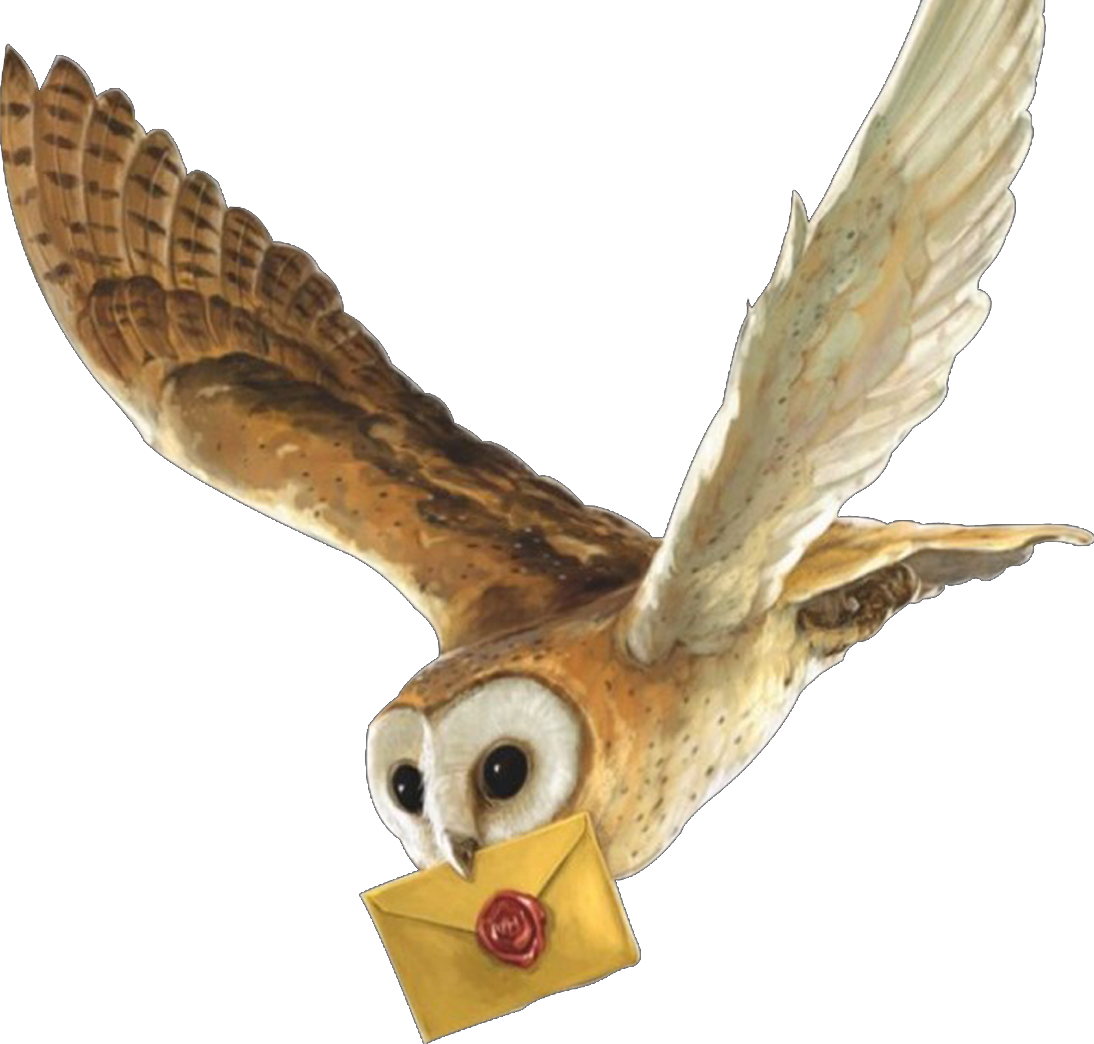
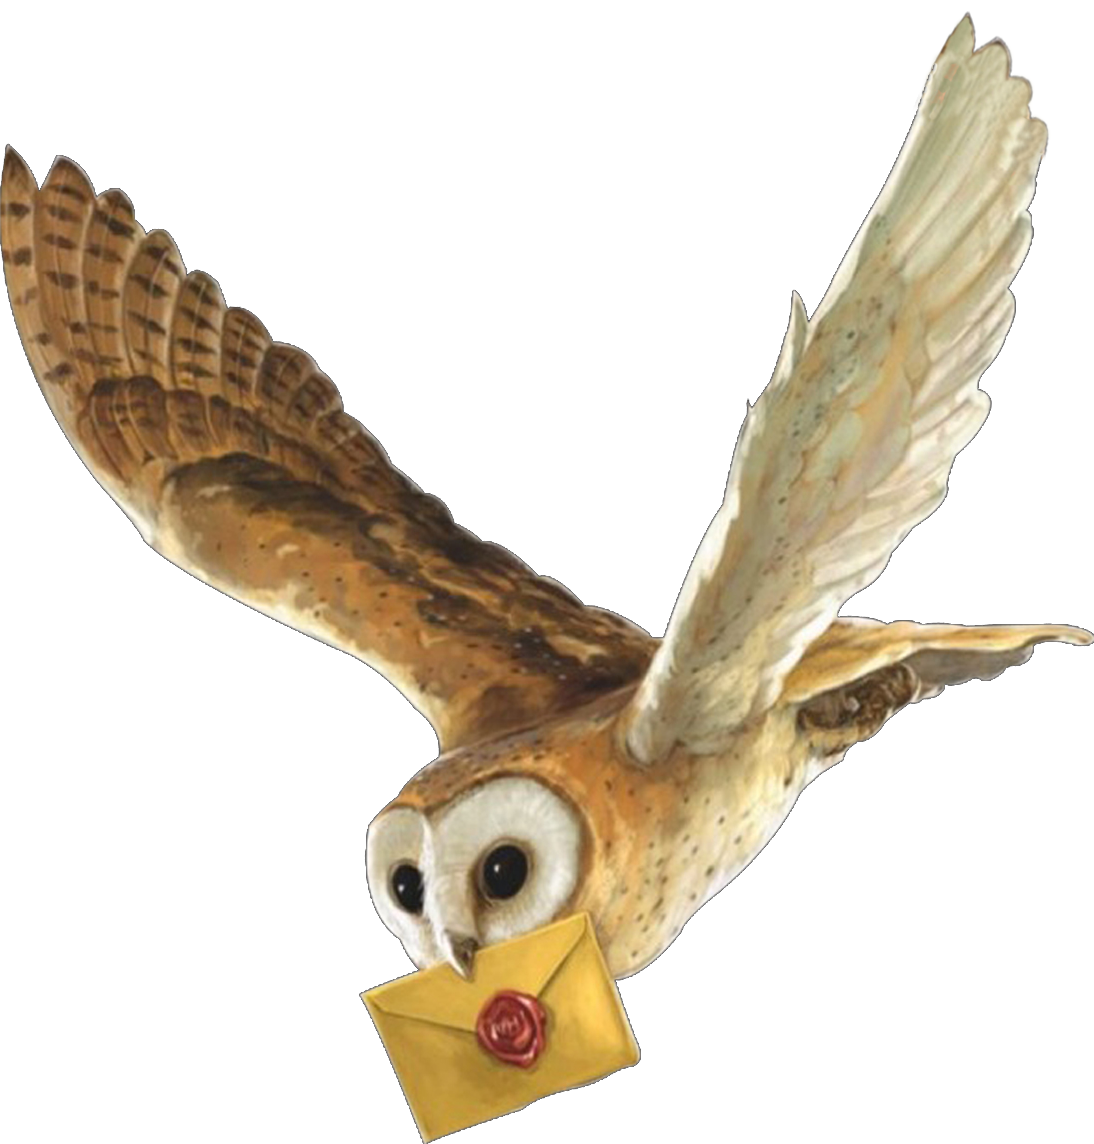
More work

Changed region(s): [[0.0, 0.0, 1.0, 0.9808], [0.404, 0.9808, 0.4351, 1.0]]

diff --git a/index.html b/index.html
@@ -24,17 +24,19 @@
 			<source src="images/white-smoke.mp4" type="video/mp4">
 		</video>
 		<article class="white-font">
-			<h1 class="hp-font">
+			<h1 class="hp-font yellow-shadow-font">
 				Happy Birthday
 			</h1>
 			<p>Wait, what’s this letter? It looks like… could it be…?</p>
 	    </article>
-		<div id="sparkle" class="sprite" data-offsety="430" data-xposition="50%" data-speed="2" data-direction="up"></div>
-		<div id="letter" class="sprite" data-offsety="430" data-xposition="50%" data-speed="3" data-direction="down"></div>
+		<div id="sparkle" class="sprite" data-scale="200" data-offsety="430" data-offsety="50%" data-speed="2" data-direction="up"></div>
+		<div id="sparkle-2" class="sprite" data-scale="150" data-offsety="430" data-offsety="50%" data-speed="3" data-direction="up"></div>
+		<div id="letter" class="sprite" data-offsety="430" data-offsety="50%" data-speed="3" data-direction="down"></div>
 	</section>
-
+	
 	<!-- Section #2 / Background Only -->
 	<section id="second" class="story parallax-bg" data-direction="down">
+		<div id="owl" class="sprite" data-scale="400" data-offsety="200" data-offsetx="85%" data-speed="3" data-direction="down"></div>
 		<article>
 			<h2 class="a-font">It's your Hogwarts letter!</h2>
 			<p>In this section we are sliding the background at a different speed to the rest of the page.</p>
@@ -47,8 +49,8 @@
 	
 	<!-- Section #3 / Photos -->
 	<section id="third" class="story parallax-bg1" data-direction="up">    	
-		<div class="photograph" data-type="sprite" data-offsetY="1250" data-Xposition="25%" data-speed="2"></div>
-		<div class="photograph" data-type="sprite" data-offsetY="1250" data-Xposition="29%" data-speed="3"></div>
+		<div class="photograph" data-type="sprite" data-offsetY="1250" data-offsety="25%" data-speed="2"></div>
+		<div class="photograph" data-type="sprite" data-offsetY="1250" data-offsety="29%" data-speed="3"></div>
     	<article>
     		<h2>Scrolling Sprites</h2>
 	    	<div class="textbox">    	
@@ -79,7 +81,7 @@
 
 	<!-- Section #5 / The End-->
 	<section id="theend" class="story parallax-bg" data-speed="8" data-offsetY="250">    	
-		<div class="byebye" data-type="sprite" data-offsetY="-1600" data-Xposition="50%" data-speed="-2"></div>	
+		<div class="byebye" data-type="sprite" data-offsetY="-1600" data-offsety="50%" data-speed="-2"></div>	
 	</section>
 	
   </div> <!-- // End of #main -->

diff --git a/css/style.css b/css/style.css
@@ -36,6 +36,9 @@
  .white-font {
      color: #ffffff;
  }
+ .yellow-shadow-font {
+    text-shadow: 1px 4px 0px #daa019;
+ }
 
  h1 {
      font-size: 10em;
@@ -53,13 +56,28 @@ article h2 {
     padding: 0;
     margin: 0;
     width: 100%;
-    max-width: 1920px;
     position: relative;
     margin: 0 auto;
     border-top: 1px solid rgba(255, 255, 255, 0.3);
     border-bottom: 1px solid rgba(0, 0, 0, 0.4);
     box-shadow: 0 0 50px rgba(0, 0, 0, 0.8);
     overflow: hidden;
+}
+
+.sprite {
+    background-color: transparent;
+    background-repeat: no-repeat;
+    background-attachment: fixed;
+    background-position-x: center; 
+    background-size: 400px;
+    height: 100vh;
+    padding: 0;
+    margin: 0;
+    width: 100%;
+    top: 0;
+    left: 0;
+    position: absolute;
+    margin: 0 auto;
 }
 
 #first {
@@ -80,20 +98,15 @@ article h2 {
     position: absolute;
     text-align: center;
 }
-#first .sprite {
-        background-image: url(../images/letter.png);
-        background-color: transparent;
-        background-repeat: no-repeat;
-        background-attachment: fixed;
-        background-position-x: center; 
-        background-size: 400px;
-        min-height: 100vh;
-        padding: 0;
-        margin: 0;
-        width: 100%;
-        max-width: 1920px;
-        position: absolute;
-        margin: 0 auto;
+
+#first .sprite#letter {
+    background-image: url(../images/letter.png);
+}
+#first .sprite#sparkle {
+    background-image: url(../images/sparkle-overlay.png);
+}
+#first .sprite#sparkle-2 {
+    background-image: url(../images/sparkle-overlay.png);
 }
 
 #second {
@@ -101,6 +114,9 @@ article h2 {
     background-size: cover;
     background-repeat: no-repeat;
     background-position: center;
+}
+#second .sprite#owl {
+    background-image: url('../images/owl.png');
 }
 
 #fourth {
@@ -118,15 +134,13 @@ article h2 {
 /* Introduction */
 
 /* Background Only */
-#second {
-    padding: 50px 0;
-}
 
 #second article {
     background: url(../images/grain.png) repeat #333;
     color: #fff;
     width: 445px;
     margin-left: 100px;
+    margin-top: 100px;
     padding: 10px 20px;
     text-shadow: 0 -1px 0 rgba(0, 0, 0, 0.5);
     line-height: 1.5em;

diff --git a/js/script.js b/js/script.js
@@ -12,9 +12,17 @@ function positionShit() {
         // Add watchers for sprites
         bgSection.querySelectorAll('.sprite').forEach(sprite => {
             if (sprite.dataset.direction === 'down') {
-                sprite.style.backgroundPositionY = -((bgSection.getBoundingClientRect().top / sprite.dataset.speed) - sprite.dataset.offsety) + 'px';
+                sprite.style.backgroundPositionY = -((bgSection.getBoundingClientRect().top / sprite.dataset.speed) - sprite.dataset.offsety) + (sprite.dataset.offsety.indexOf('px') > -1 || sprite.dataset.offsety.indexOf('%') > -1 ? '' : 'px');
             } else if(sprite.dataset.direction === 'up') {
-                sprite.style.backgroundPositionY = (parseInt(sprite.dataset.offsety) + (parseInt(bgSection.getBoundingClientRect().top) * sprite.dataset.speed)) + 'px';
+                sprite.style.backgroundPositionY = (parseInt(sprite.dataset.offsety) + (parseInt(bgSection.getBoundingClientRect().top) * sprite.dataset.speed)) + (sprite.dataset.offsety.indexOf('px') > -1 || sprite.dataset.offsety.indexOf('%') > -1 ? '' : 'px');
+            }
+
+            if(sprite.dataset.scale) {
+                sprite.style.backgroundSize = parseInt(sprite.dataset.scale) - parseInt(bgSection.getBoundingClientRect().top) + (sprite.dataset.offsety.indexOf('px') > -1 || sprite.dataset.offsety.indexOf('%') > -1 ? '' : 'px');
+            }
+
+            if(sprite.dataset.offsetx) {
+                sprite.style.backgroundPositionX = sprite.dataset.offsetx;
             }
         });
     });
